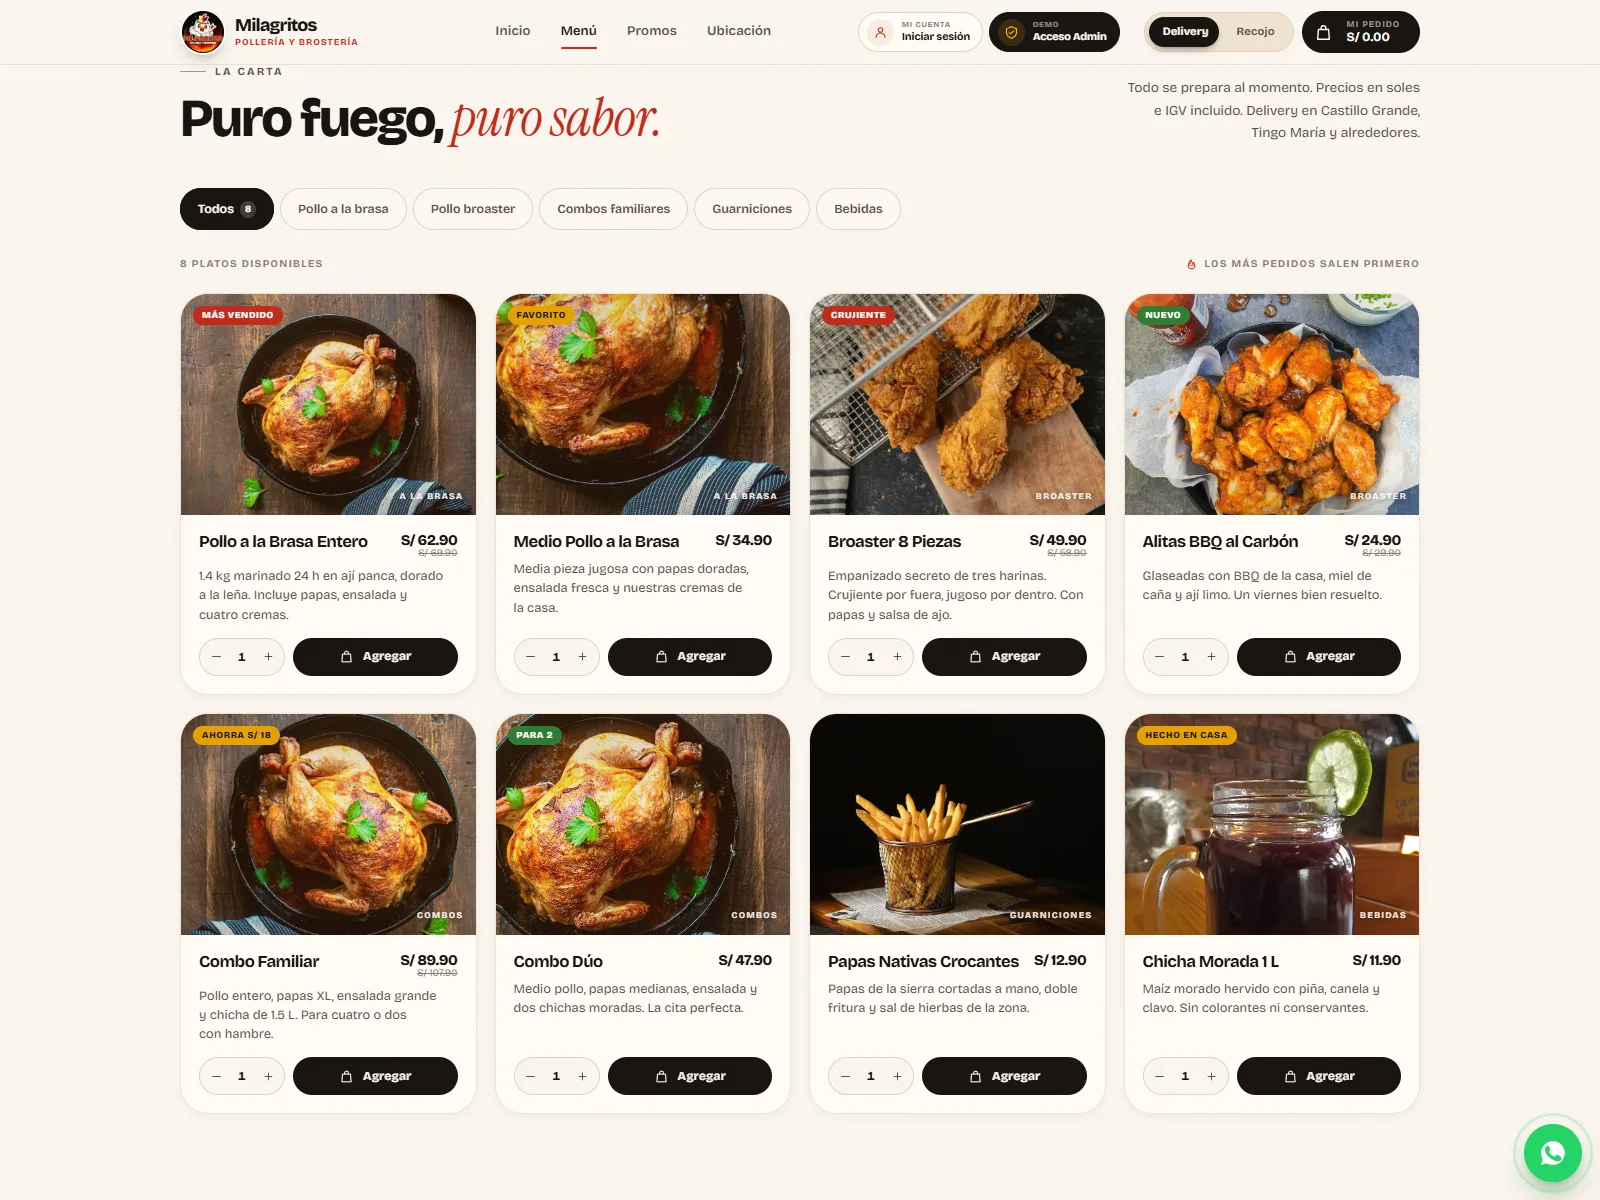
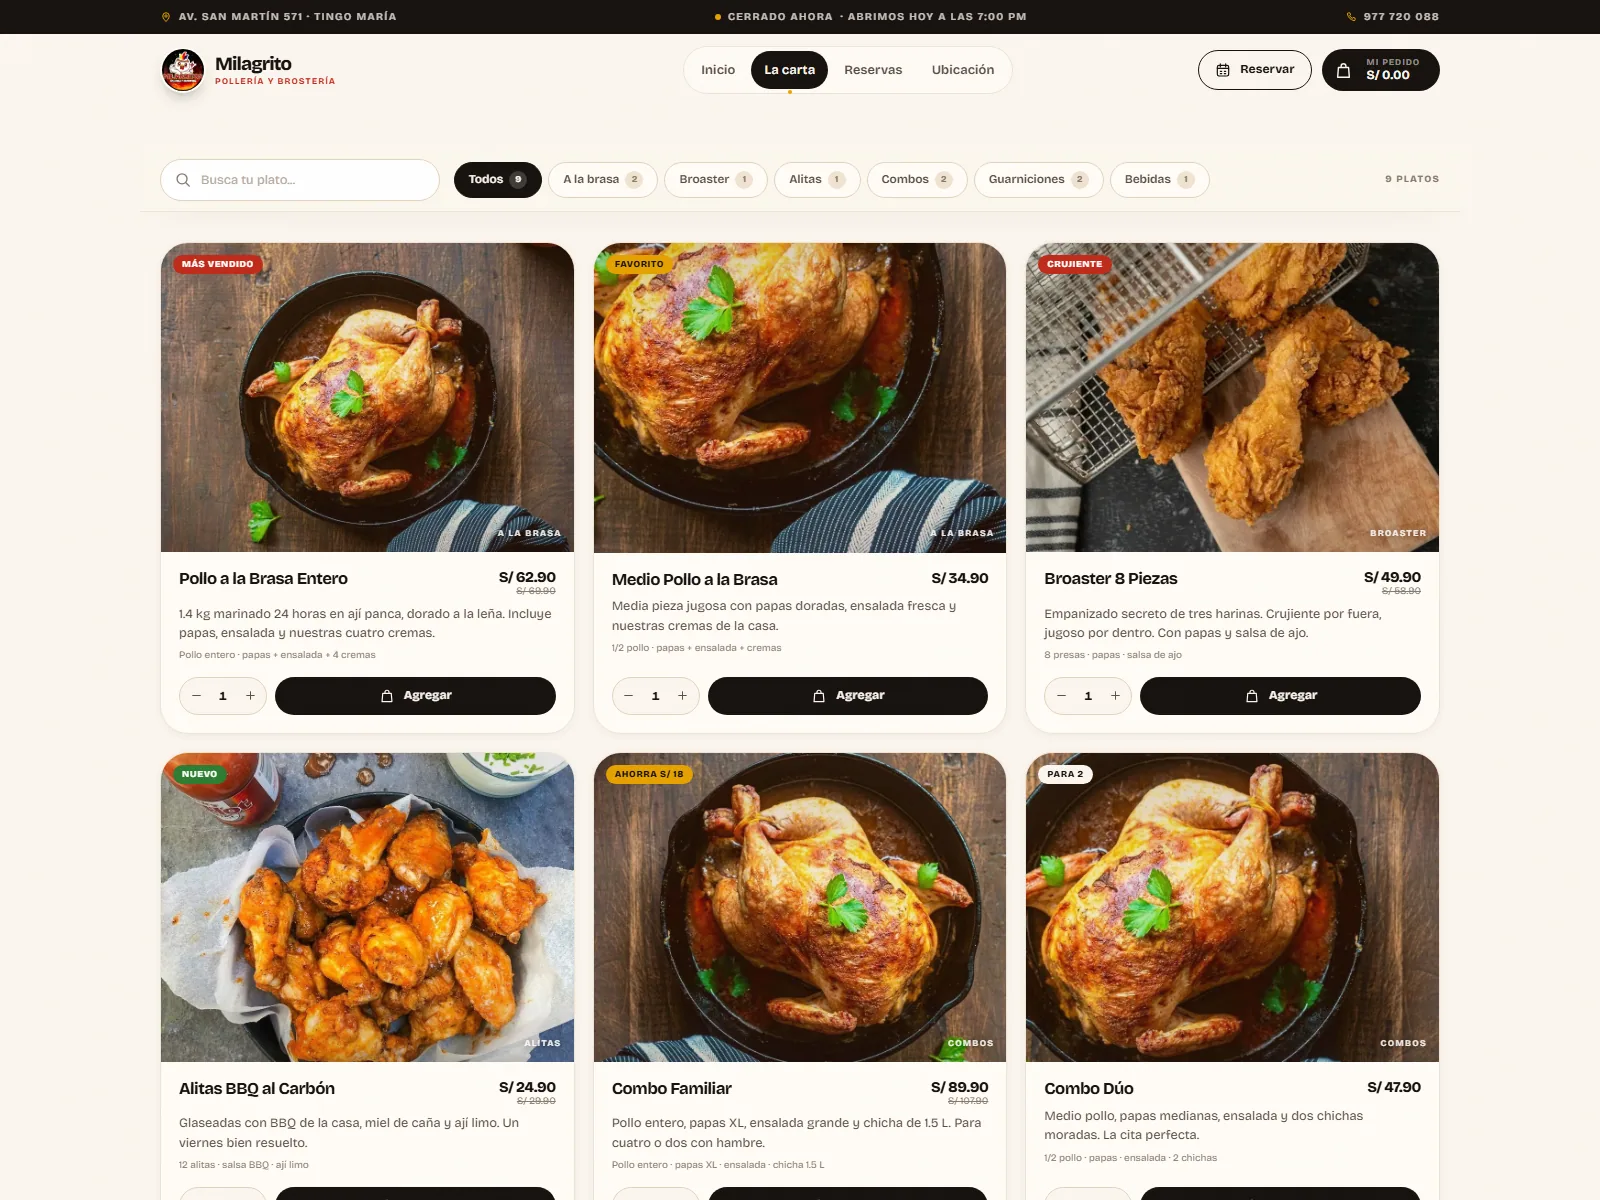
feat: actualiza ficha de Milagrito con el sitio nuevo

diff --git a/src/app/data/projects.ts b/src/app/data/projects.ts
@@ -85,80 +85,74 @@ export const PROJECTS: Project[] = [
   },
   {
     slug: 'milagritos-demo',
-    title: 'Milagritos — Pollería y Brostería',
-    subtitle: 'Carta digital con pedidos para una pollería de Castillo Grande.',
+    title: 'Milagrito — Pollería y Brostería',
+    subtitle: 'Carta digital, pedidos y reservas para una pollería de Tingo María.',
     year: 2026,
     kind: 'desarrollo',
-    status: 'Demo de diseño',
+    status: 'Demo funcional',
 
     cover: '/proyectos/milagritos-demo/cover.webp',
-    coverAlt: 'Portada de Milagritos con pollo a la brasa, precio del combo y botones de pedido',
+    coverAlt: 'Portada de Milagrito con el pollo a la brasa, el precio y el botón de pedido',
 
-    stack: ['html5', 'css', 'javascript', 'vercel'],
+    stack: ['angular', 'typescript', 'css', 'vercel'],
 
     summary:
-      'La carta digital de una pollería: el cliente ve los platos, arma su pedido, elige delivery o recojo y lo envía por WhatsApp con el detalle completo. Incluye un panel para revisar pedidos, clientes y ventas del día.',
+      'La web de una pollería: carta con precios y promociones, pedido que se arma y se envía por WhatsApp, reserva de mesas, horarios, zonas de delivery y libro de reclamaciones.',
 
     problem:
-      'Los pedidos llegaban por WhatsApp y teléfono, y cada consulta de precios, promociones o zonas de reparto se respondía a mano. En hora punta eso hacía perder tiempo y provocaba errores al anotar el pedido.',
+      'Los pedidos y las reservas llegaban por WhatsApp y teléfono. Cada consulta de precios, horarios o zonas de reparto se respondía a mano, y en hora punta se perdían mensajes o se anotaban mal los pedidos.',
 
     solution:
-      'Se armó una web pensada para el celular donde el cliente ve la carta actualizada, arma el pedido y lo envía listo por WhatsApp, sin repetir nada. La dueña entra a un panel simple para revisar pedidos, clientes y ventas. Es una demostración: los datos de prueba se guardan en el mismo navegador, sin depender de un servidor.',
+      'Se construyó una web pensada para el celular: el cliente elige sus platos, decide si quiere delivery o recojo y envía el pedido por WhatsApp con el detalle y el total. También reserva mesa con los horarios disponibles y revisa dirección, horarios, zonas de reparto y métodos de pago. La carta y los horarios se actualizan desde un solo lugar.',
 
     highlights: [
-      'Pedidos armados sin errores',
-      'Atención más rápida en hora punta',
-      'Panel de control para el negocio',
+      'Pedido con detalle y total en WhatsApp',
+      'Reservas sin llamadas ni idas y vueltas',
+      'Horarios y zonas de reparto siempre a la vista',
     ],
 
     metrics: [
-      { value: '8', label: 'platos en la carta' },
-      { value: '5', label: 'categorías de menú' },
-      { value: '4', label: 'zonas de delivery' },
+      { value: '9', label: 'platos en la carta' },
+      { value: '6', label: 'categorías del menú' },
+      { value: '5', label: 'zonas de delivery' },
     ],
 
     gallery: [
       {
         src: '/proyectos/milagritos-demo/detalle-1.webp',
-        alt: 'Carta de platos con filtros por categoría, precios y botones para agregar al pedido',
-        caption: 'Carta con filtros y precios en soles',
+        alt: 'Carta de Milagrito con buscador, filtros por categoría, precios en soles y botones para agregar al pedido',
+        caption: 'Carta con buscador, filtros y precios',
         ratio: '4 / 3',
       },
       {
         src: '/proyectos/milagritos-demo/detalle-2.webp',
-        alt: 'Bloque oscuro de combos familiares con el Combo Familiar y sus acompañamientos',
-        caption: 'Combos y promociones de la casa',
+        alt: 'Pedido abierto con siete platos, delivery gratis desbloqueado, subtotal y botón para enviar por WhatsApp',
+        caption: 'Pedido armado y enviado por WhatsApp',
         ratio: '4 / 3',
       },
       {
         src: '/proyectos/milagritos-demo/detalle-3.webp',
-        alt: 'Mapa de ubicación, horarios y zonas de delivery de Milagritos',
+        alt: 'Formulario de reserva con fecha, número de personas, horarios disponibles y motivo de la visita',
+        caption: 'Reserva de mesa con horarios disponibles',
+        ratio: '4 / 3',
+      },
+      {
+        src: '/proyectos/milagritos-demo/detalle-4.webp',
+        alt: 'Dirección, horario semanal, zonas de delivery y mapa de ubicación de Milagrito en Tingo María',
         caption: 'Ubicación, horarios y zonas de reparto',
         ratio: '4 / 3',
       },
       {
-        src: '/proyectos/milagritos-demo/cuenta.webp',
-        alt: 'Pantalla de inicio de sesión y creación de cuenta de Milagritos',
-        caption: 'Cuenta de cliente y acceso de administrador',
-        ratio: '4 / 3',
-      },
-      {
-        src: '/proyectos/milagritos-demo/panel.webp',
-        alt: 'Panel de administración con ventas del día, pedidos, clientes y gráficos',
-        caption: 'Panel del negocio: ventas y pedidos del día',
-        ratio: '4 / 3',
-      },
-      {
-        src: '/proyectos/milagritos-demo/clientes.webp',
-        alt: 'Lista de clientes registrados con sus permisos de contacto por WhatsApp y correo',
-        caption: 'Base de clientes y permisos de contacto',
+        src: '/proyectos/milagritos-demo/detalle-5.webp',
+        alt: 'Libro de reclamaciones con formulario de tres pasos y datos del proveedor',
+        caption: 'Libro de reclamaciones conforme a ley',
         ratio: '4 / 3',
       },
     ],
 
-    links: [{ label: 'Ver demo', href: 'https://milagritos-demo-mvp.vercel.app/', kind: 'demo' }],
+    links: [{ label: 'Ver sitio', href: 'https://milagritos-demo-mvp.vercel.app/', kind: 'demo' }],
 
-    updated: '2026-11-09',
+    updated: '2026-11-12',
   },
   {
     slug: 'pisco-rain-extractor',
